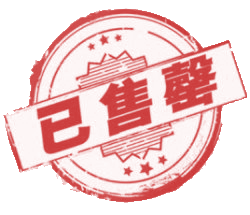
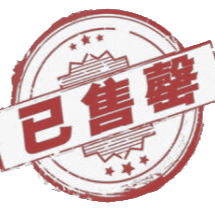
更改售空图片比例

diff --git a/src/components/cui-goods-item.vue b/src/components/cui-goods-item.vue
@@ -45,8 +45,18 @@ export default {
   props: {
     item: { type: Object },
     selloutImage: { type: String },
-    tobuy: {type: Function, default: ()=>{console.log("not have click even")}},
-    itemclick: {type: Function, default: ()=>{console.log("not have itemclick even")}}
+    tobuy: {
+      type: Function,
+      default: () => {
+        console.log("not have click even");
+      },
+    },
+    itemclick: {
+      type: Function,
+      default: () => {
+        console.log("not have itemclick even");
+      },
+    },
   },
 };
 </script>
@@ -107,11 +117,12 @@ export default {
   */
   /** 更大的馨售 */
   position: absolute;
-  width: 40%;
-  height: 74%;
+  width: 25vw;
+  height: 25vw;
+  filter: brightness(1.6);
   left: 18%;
   top: 26%;
-   object-fit: cover;
+  object-fit: cover;
 }
 
 /** 合并圆角按钮 */
